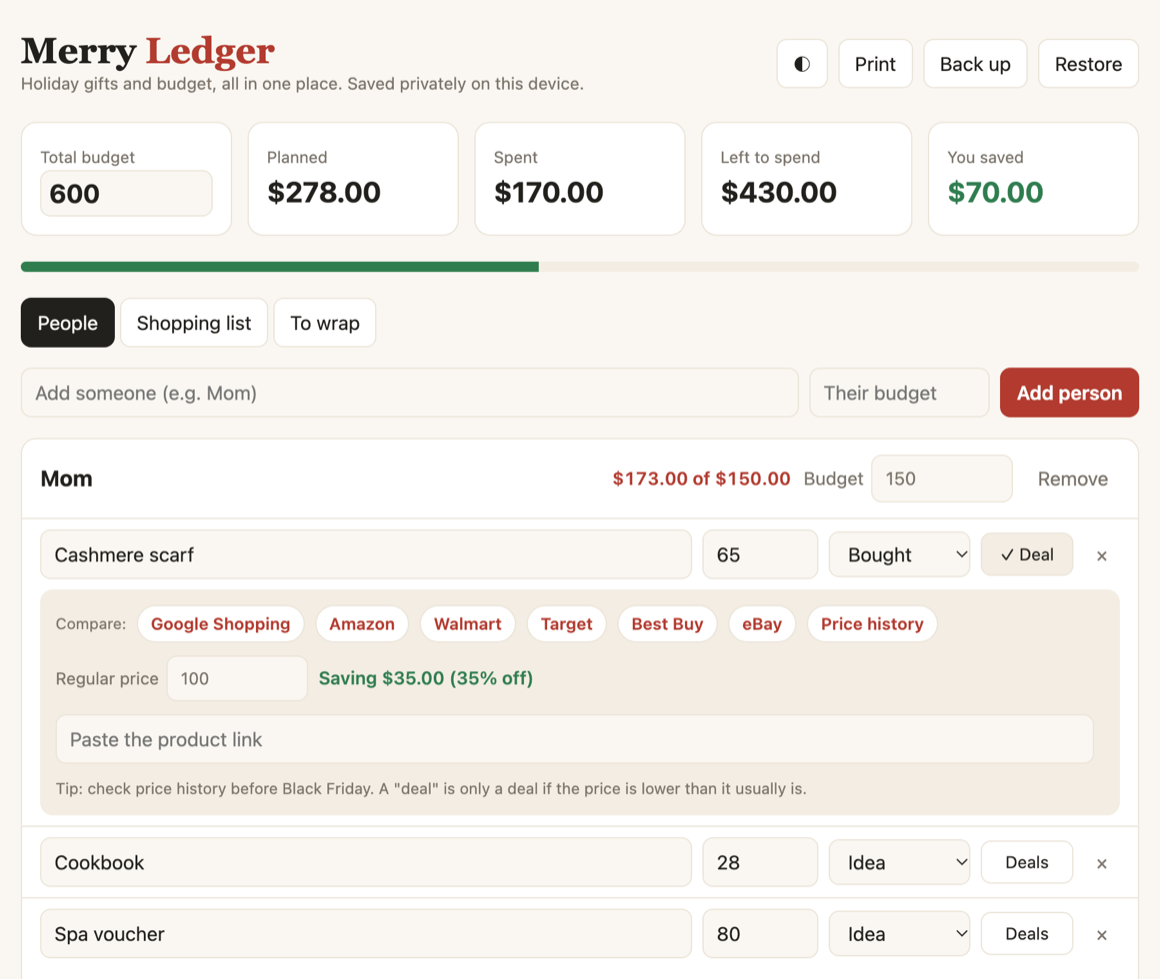
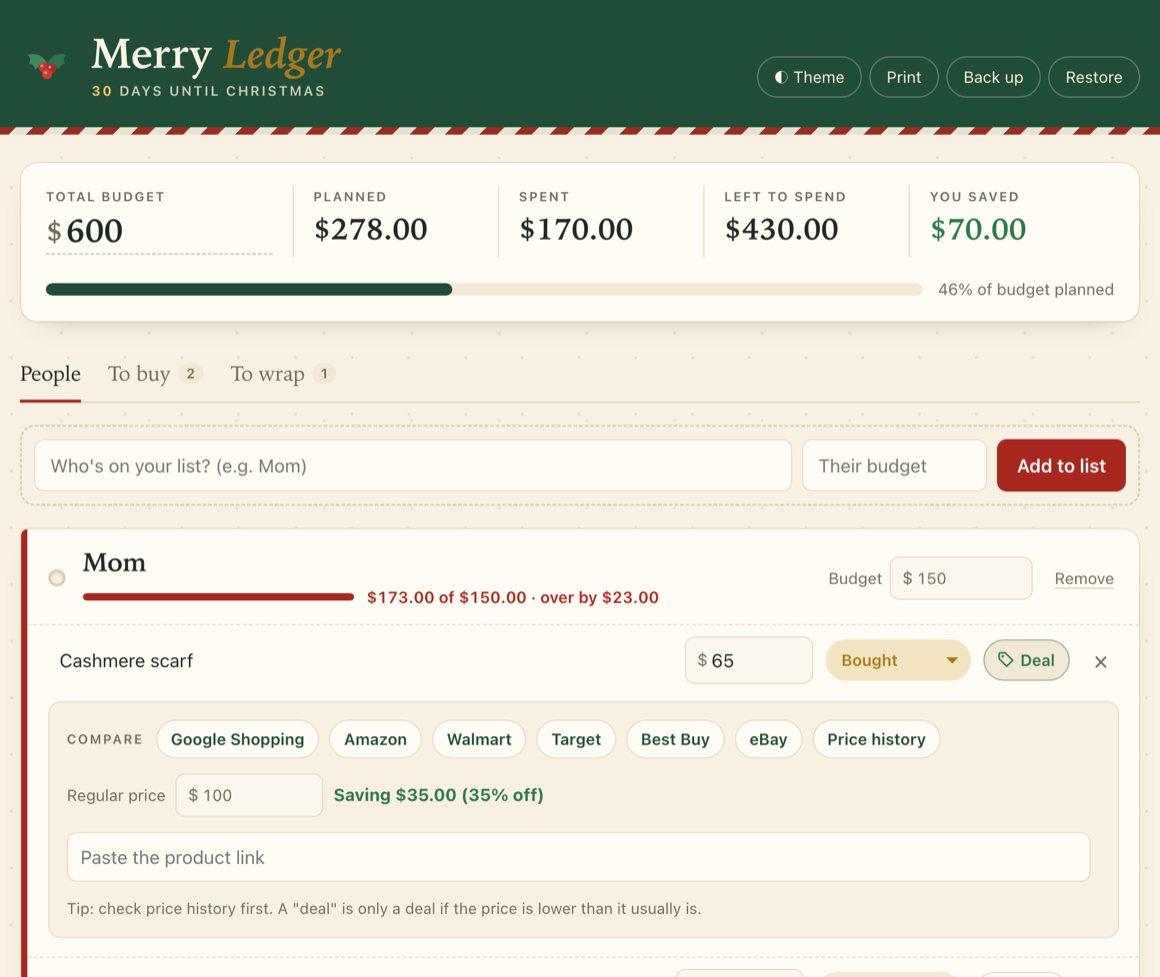
Merry Ledger storefront: show the v1.2 festive design (#44)

diff --git a/public/merry-ledger/index.html b/public/merry-ledger/index.html
@@ -69,7 +69,7 @@
         <figure class="hero-shot">
           <picture>
             <source type="image/webp" srcset="/img/merry-ledger/app-580.webp 580w, /img/merry-ledger/app-1160.webp 1160w" sizes="(min-width: 960px) 29rem, calc(100vw - 2.5rem)" />
-            <img src="/img/merry-ledger/app-580.png" srcset="/img/merry-ledger/app-580.png 580w, /img/merry-ledger/app-1160.png 1160w" sizes="(min-width: 960px) 29rem, calc(100vw - 2.5rem)" width="580" height="489" alt="Merry Ledger with a $600 budget: $278 planned, $170 spent, $430 left and $70 saved. Mom is over her $150 budget, and the scarf's Deals panel shows price comparison links and a 35% saving." fetchpriority="high" decoding="async" />
+            <img src="/img/merry-ledger/app-580.png" srcset="/img/merry-ledger/app-580.png 580w, /img/merry-ledger/app-1160.png 1160w" sizes="(min-width: 960px) 29rem, calc(100vw - 2.5rem)" width="580" height="488" alt="Merry Ledger with a $600 budget: $278 planned, $170 spent, $430 left and $70 saved. Mom is over her $150 budget, and the scarf's Deals panel shows price comparison links and a 35% saving." fetchpriority="high" decoding="async" />
           </picture>
           <figcaption>Budgets, statuses and savings at a glance. Sample data.</figcaption>
         </figure>
